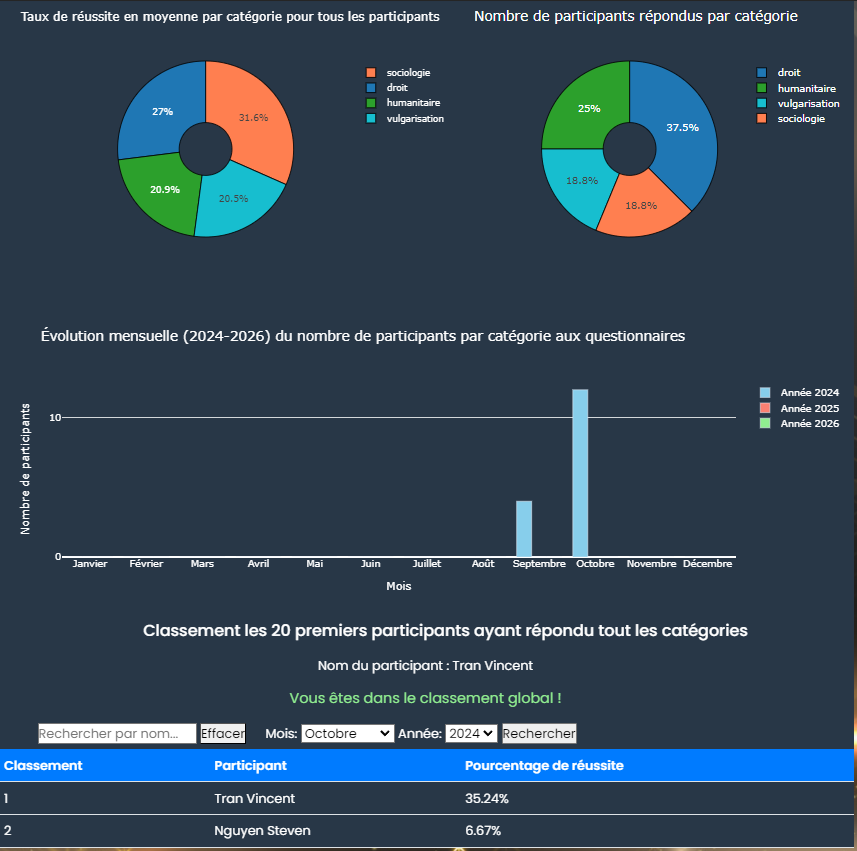
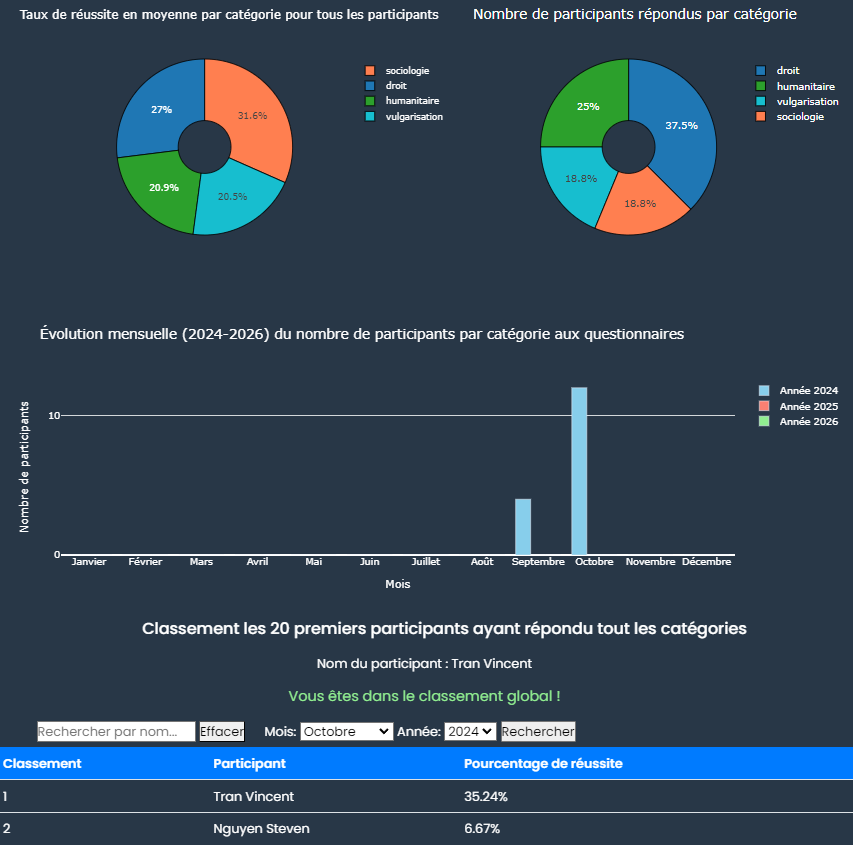
Update images

diff --git a/index.html b/index.html
@@ -118,7 +118,7 @@
                     <h3 style="display: inline;">Data Scientist NLP Internship at IDHN Lab, Cergy Pontoise</h3>
                 </div>
                 <div class="project-images">
-                    <img src="images/nlp_project.png" alt="NLP Project Image 1">
+                    <img src="images/nlp_project.jpg" alt="NLP Project Image 1">
                     <img src="images/nlp_project_2.png" alt="NLP Project Image 2">
                 </div>
                 <b>Text classification model (NLP) was developed to identify the topics discussed in the political speeches of each candidate in the 2022 French presidential election</b> <br>

diff --git a/styles.css b/styles.css
@@ -185,7 +185,7 @@ h2 {
 }
 
 .project-images img {
-    width: 22%;
+    width: 45%;
     height: 100%;
     border-radius: 5px;
 }
